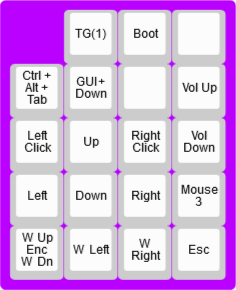
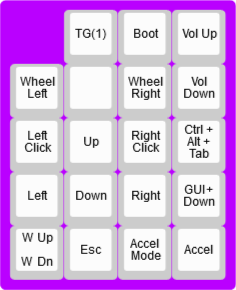
Update tidbit mouse keys based on tidbit mouse keys

diff --git a/keyboards/nullbitsco/tidbit/keymap.c b/keyboards/nullbitsco/tidbit/keymap.c
@@ -20,16 +20,31 @@
 
 enum custom_keycodes {
   PROG = SAFE_RANGE,
+  ACCEL,
+  ACCEL_ADJ,
 };
+
+enum {
+    ACCEL_0 = 0,
+    ACCEL_1 = 1,
+    ACCEL_2 = 2,
+};
+static uint8_t acceleration_level = ACCEL_0;
+void change_accel(void) {
+    acceleration_level++;
+    if (acceleration_level > ACCEL_2) {
+        acceleration_level = ACCEL_0;
+    }
+}
 
 const uint16_t PROGMEM keymaps[][MATRIX_ROWS][MATRIX_COLS] = {
   // Base layer (numpad)
   [0] = LAYOUT(
-                      TO(1),         PROG,           KC_NO, \
-  LCTL(LALT(KC_TAB)), LGUI(KC_DOWN), KC_NO,          KC_AUDIO_VOL_UP, \
-  KC_MS_BTN1,         KC_MS_UP,      KC_MS_BTN2,     KC_AUDIO_VOL_DOWN, \
-  KC_MS_LEFT,         KC_MS_DOWN,    KC_MS_RIGHT,    KC_MS_BTN3, \
-  KC_NO,              KC_MS_WH_LEFT, KC_MS_WH_RIGHT, KC_ESC  \
+                 TO(1),      PROG,           KC_AUDIO_VOL_UP, \
+  KC_MS_WH_LEFT, KC_NO,      KC_MS_WH_RIGHT, KC_AUDIO_VOL_DOWN, \
+  KC_MS_BTN1,    KC_MS_UP,   KC_MS_BTN2,     LCTL(LALT(KC_TAB)), \
+  KC_MS_LEFT,    KC_MS_DOWN, KC_MS_RIGHT,    LGUI(KC_DOWN), \
+  KC_NO,         KC_ESC,     ACCEL_ADJ,      ACCEL  \
   ),
 
   // Function layer (numpad)
@@ -52,10 +67,43 @@ bool process_record_user(uint16_t keycode, keyrecord_t *record) {
         rgblight_disable_noeeprom();
         bootloader_jump(); //jump to bootloader
       }
-    break;
-
+      break;
+    case ACCEL:
+      if (record->event.pressed) {
+        switch(acceleration_level) {
+            case ACCEL_0:
+                register_code16(KC_ACL0);
+                break;
+            case ACCEL_1:
+                register_code16(KC_ACL1);
+                break;
+            case ACCEL_2:
+                register_code16(KC_ACL2);
+                break;
+        }
+      } else {
+        switch(acceleration_level) {
+            case ACCEL_0:
+                unregister_code16(KC_ACL0);
+                break;
+            case ACCEL_1:
+                unregister_code16(KC_ACL1);
+                break;
+            case ACCEL_2:
+                unregister_code16(KC_ACL2);
+                break;
+        }
+      }
+      return false; // Skip all further processing of this key
+    case ACCEL_ADJ:
+        if (record->event.pressed) {
+        }
+        else {
+            change_accel();
+        }
+        return false; // Skip all further processing of this key
     default:
-    break;
+      break;
   }
   return true;
 }

diff --git a/qmk/keyboards/nullbitsco/tidbit/keymaps/kemonine/keymap.c b/qmk/keyboards/nullbitsco/tidbit/keymaps/kemonine/keymap.c
@@ -20,16 +20,31 @@
 
 enum custom_keycodes {
   PROG = SAFE_RANGE,
+  ACCEL,
+  ACCEL_ADJ,
 };
+
+enum {
+    ACCEL_0 = 0,
+    ACCEL_1 = 1,
+    ACCEL_2 = 2,
+};
+static uint8_t acceleration_level = ACCEL_0;
+void change_accel(void) {
+    acceleration_level++;
+    if (acceleration_level > ACCEL_2) {
+        acceleration_level = ACCEL_0;
+    }
+}
 
 const uint16_t PROGMEM keymaps[][MATRIX_ROWS][MATRIX_COLS] = {
   // Base layer (numpad)
   [0] = LAYOUT(
-                      TO(1),         PROG,           KC_NO, \
-  LCTL(LALT(KC_TAB)), LGUI(KC_DOWN), KC_NO,          KC_AUDIO_VOL_UP, \
-  KC_MS_BTN1,         KC_MS_UP,      KC_MS_BTN2,     KC_AUDIO_VOL_DOWN, \
-  KC_MS_LEFT,         KC_MS_DOWN,    KC_MS_RIGHT,    KC_MS_BTN3, \
-  KC_NO,              KC_MS_WH_LEFT, KC_MS_WH_RIGHT, KC_ESC  \
+                 TO(1),      PROG,           KC_AUDIO_VOL_UP, \
+  KC_MS_WH_LEFT, KC_NO,      KC_MS_WH_RIGHT, KC_AUDIO_VOL_DOWN, \
+  KC_MS_BTN1,    KC_MS_UP,   KC_MS_BTN2,     LCTL(LALT(KC_TAB)), \
+  KC_MS_LEFT,    KC_MS_DOWN, KC_MS_RIGHT,    LGUI(KC_DOWN), \
+  KC_NO,         KC_ESC,     ACCEL_ADJ,      ACCEL  \
   ),
 
   // Function layer (numpad)
@@ -52,10 +67,43 @@ bool process_record_user(uint16_t keycode, keyrecord_t *record) {
         rgblight_disable_noeeprom();
         bootloader_jump(); //jump to bootloader
       }
-    break;
-
+      break;
+    case ACCEL:
+      if (record->event.pressed) {
+        switch(acceleration_level) {
+            case ACCEL_0:
+                register_code16(KC_ACL0);
+                break;
+            case ACCEL_1:
+                register_code16(KC_ACL1);
+                break;
+            case ACCEL_2:
+                register_code16(KC_ACL2);
+                break;
+        }
+      } else {
+        switch(acceleration_level) {
+            case ACCEL_0:
+                unregister_code16(KC_ACL0);
+                break;
+            case ACCEL_1:
+                unregister_code16(KC_ACL1);
+                break;
+            case ACCEL_2:
+                unregister_code16(KC_ACL2);
+                break;
+        }
+      }
+      return false; // Skip all further processing of this key
+    case ACCEL_ADJ:
+        if (record->event.pressed) {
+        }
+        else {
+            change_accel();
+        }
+        return false; // Skip all further processing of this key
     default:
-    break;
+      break;
   }
   return true;
 }

diff --git a/keyboards/nullbitsco/tidbit/config.h b/keyboards/nullbitsco/tidbit/config.h
@@ -29,6 +29,7 @@
 #define MOUSEKEY_WHEEL_INTERVAL 50
 #define MOUSEKEY_WHEEL_TIME_TO_MAX 20
 #define MOUSEKEY_WHEEL_MAX_SPEED 10
+#define MK_COMBINED
 
 // Encoder
 #define ENCODERS_PAD_A { D3 }

diff --git a/qmk/keyboards/nullbitsco/tidbit/keymaps/kemonine/config.h b/qmk/keyboards/nullbitsco/tidbit/keymaps/kemonine/config.h
@@ -29,6 +29,7 @@
 #define MOUSEKEY_WHEEL_INTERVAL 50
 #define MOUSEKEY_WHEEL_TIME_TO_MAX 20
 #define MOUSEKEY_WHEEL_MAX_SPEED 10
+#define MK_COMBINED
 
 // Encoder
 #define ENCODERS_PAD_A { D3 }
